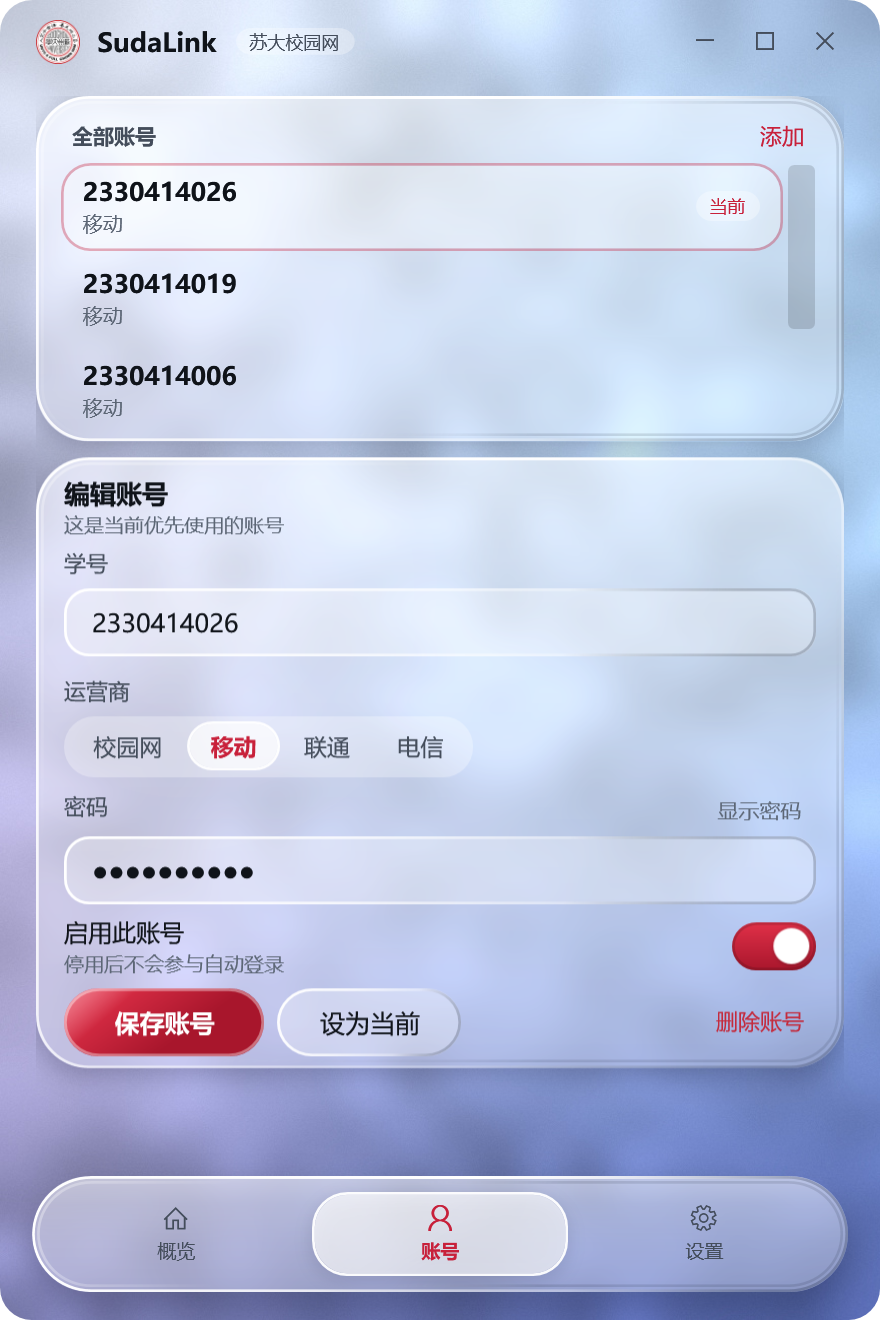
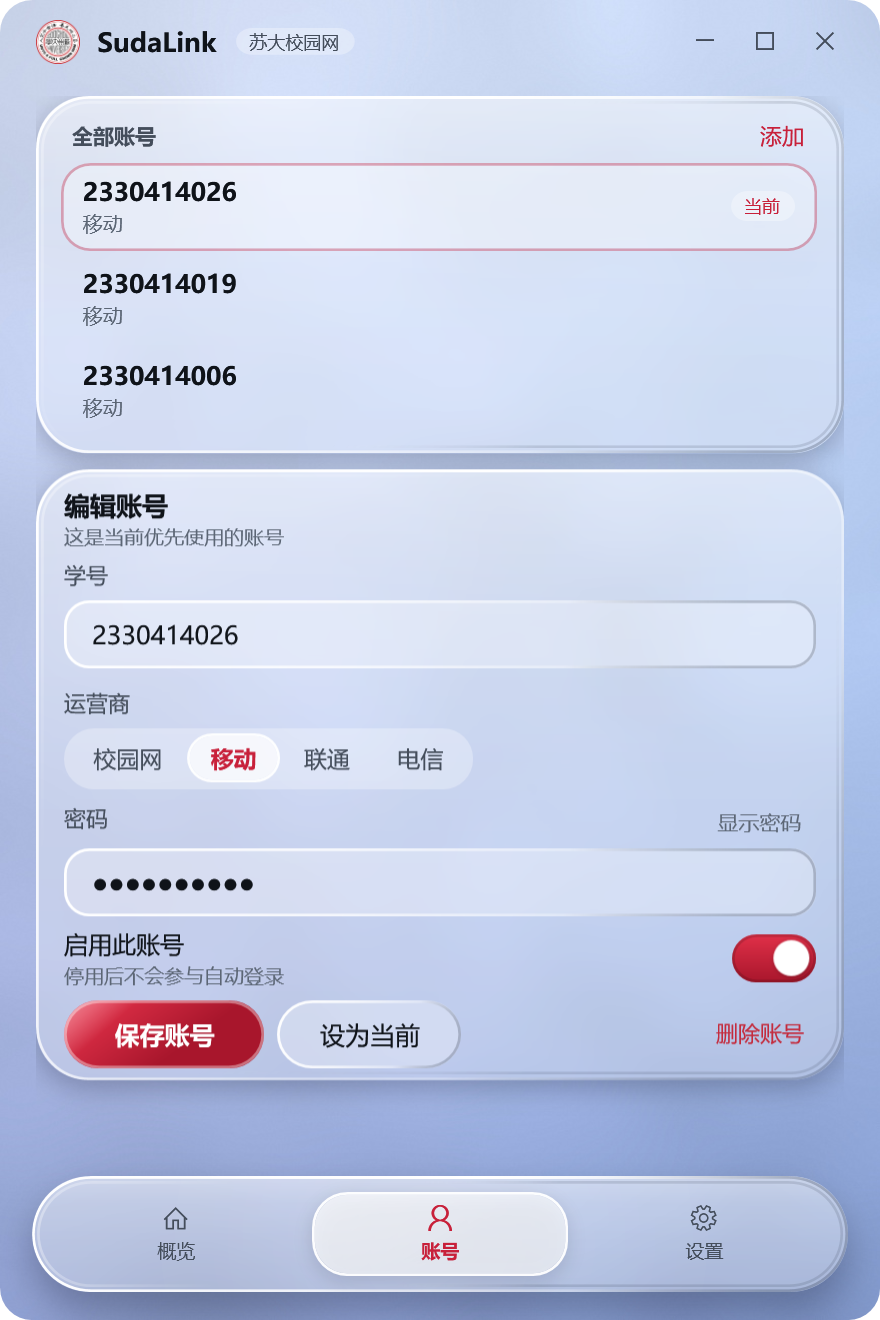
fix: 4.4.2 —— 背景更干净，账号列表不再滚动
- aura 壁纸：云纹振幅 3.8%/5% → 0.9%/1.4%，颗粒 0.006 → 0.0025；
  光斑强度减半，去掉右下深色块与中央亮斑，浅/深都更干净。
- 账号列表：取消 MaxHeight=134，禁用内部垂直滚动条，
  账号自然完整展开，不再出现裁切和列表内滚动条。
  账号很多时由页面外层 ScrollViewer 统一处理。

浅/深主题渲染验证，测试 7/7。tag v4.4.2。

diff --git a/src/SudaLink/MainWindow.xaml b/src/SudaLink/MainWindow.xaml
@@ -265,10 +265,11 @@
                                             HorizontalAlignment="Right" Click="NewAccount"/>
                                 </Grid>
                                 <ListBox x:Name="AccountsList" Grid.Row="1" Background="Transparent"
-                                         BorderThickness="0" MaxHeight="134" Margin="0,0,2,0"
+                                         BorderThickness="0" Margin="0,0,2,0"
                                          ItemContainerStyle="{StaticResource Row}"
                                          SelectionChanged="AccountSelected"
-                                         ScrollViewer.HorizontalScrollBarVisibility="Disabled">
+                                         ScrollViewer.HorizontalScrollBarVisibility="Disabled"
+                                         ScrollViewer.VerticalScrollBarVisibility="Disabled">
                                     <ListBox.ItemTemplate>
                                         <DataTemplate>
                                             <Grid>

diff --git a/tools/gen_wallpaper.py b/tools/gen_wallpaper.py
@@ -71,26 +71,22 @@ def build(style: str, dark: bool) -> Image.Image:
     if style == "aura":
         # 高对比光场：饱和底色 + 大光斑。玻璃的"透"和"磨"都看得见。
         # 浅色主题：periwinkle/azure 中明度底 + 亮白/青/玫瑰光斑，面板提亮后明显浮出。
-        stops = ([(0.00, hx("#0B0F22")), (0.40, hx("#131A3C")), (0.74, hx("#0D122B")), (1.00, hx("#070A18"))]
+        stops = ([(0.00, hx("#0C1324")), (0.40, hx("#111C32")), (0.74, hx("#0D172B")), (1.00, hx("#091221"))]
                  if dark else
-                 [(0.00, hx("#8FA9EE")), (0.30, hx("#7E97E6")), (0.64, hx("#6E84D8")), (1.00, hx("#5C6EC2"))])
+                 [(0.00, hx("#B8C9F2")), (0.30, hx("#A2B8EC")), (0.64, hx("#91A9E2")), (1.00, hx("#819AD6"))])
         img = ramp(stops, yn)
         if dark:
-            img = blend(img, hx("#5FA8FF"), 0.55 * blob(xn, yn, 0.16, 0.06, 0.50, 0.34))
-            img = blend(img, hx("#8C6BFF"), 0.42 * blob(xn, yn, 0.92, 0.30, 0.44, 0.36))
-            img = blend(img, hx("#2FD4C4"), 0.30 * blob(xn, yn, 0.10, 0.86, 0.40, 0.32))
-            img = blend(img, hx("#B8D8FF"), 0.24 * blob(xn, yn, 0.55, 0.42, 0.30, 0.24))
+            img = blend(img, hx("#5FA8FF"), 0.24 * blob(xn, yn, 0.16, 0.06, 0.56, 0.38))
+            img = blend(img, hx("#8C6BFF"), 0.16 * blob(xn, yn, 0.92, 0.30, 0.50, 0.40))
+            img = blend(img, hx("#2FD4C4"), 0.10 * blob(xn, yn, 0.10, 0.86, 0.46, 0.36))
         else:
-            img = blend(img, hx("#F4F8FF"), 0.85 * blob(xn, yn, 0.14, 0.02, 0.52, 0.34))
-            img = blend(img, hx("#BFF0FF"), 0.60 * blob(xn, yn, 0.95, 0.38, 0.40, 0.34))
-            img = blend(img, hx("#F8D9EA"), 0.55 * blob(xn, yn, 0.04, 0.72, 0.36, 0.30))
-            img = blend(img, hx("#43549E"), 0.42 * blob(xn, yn, 0.80, 0.96, 0.44, 0.30))
-            img = blend(img, hx("#CBE6FF"), 0.50 * blob(xn, yn, 0.55, 0.50, 0.26, 0.22))
-        # 柔和明度云纹：20~70px 尺度的无结构起伏（约 ±5%）。
-        # 没有它，光斑尺度都在几百 px，磨砂模糊前后没有差别，玻璃就"死"了。
-        cloud = mottle(20261026, 46, 14) * 0.038 + mottle(20261027, 130, 40) * 0.05
+            img = blend(img, hx("#F4F8FF"), 0.48 * blob(xn, yn, 0.14, 0.02, 0.60, 0.40))
+            img = blend(img, hx("#D5F3FF"), 0.26 * blob(xn, yn, 0.95, 0.38, 0.48, 0.40))
+            img = blend(img, hx("#F6E3EF"), 0.20 * blob(xn, yn, 0.04, 0.72, 0.44, 0.36))
+        # 只留很轻的明暗起伏，避免"脏/乱"的颗粒感；玻璃仍靠大光斑的柔和过渡体现。
+        cloud = mottle(20261026, 70, 24) * 0.009 + mottle(20261027, 170, 55) * 0.014
         img = img * (1.0 + cloud)[..., None]
-        grain = 0.006
+        grain = 0.0025
 
     elif style == "plain":
         # 最素的一档：没有任何可辨认的结构。玻璃靠描边和阴影表达，不靠背景花纹。

diff --git a/docs/versions/v4.4.md b/docs/versions/v4.4.md
@@ -57,3 +57,11 @@
 修复：模板根 `Grid x:Name="PART_Root"`，代码在 `OnApplyTemplate` /
 `OnRenderSizeChanged` / `CornerRadius` 变化时设置
 `RectangleGeometry(rect, radius, radius)` 作为 `Clip`，所有子层统一真正圆角。
+
+
+## 4.4.2 补丁：干净背景 + 账号列表免滚动
+
+- 用户反馈浅/深背景都显脏乱：aura 云纹振幅从 3.8%/5% 降至 0.9%/1.4%，
+  颗粒从 0.006 降至 0.0025，光斑强度减半，去掉右下深色块与中央亮斑。
+- 账号列表去掉 `MaxHeight=134`，并显式 `VerticalScrollBarVisibility=Disabled`，
+  列表高度随账号自然展开；账号很多时由页面外层 ScrollViewer 统一处理。

diff --git a/CHANGELOG.md b/CHANGELOG.md
@@ -19,6 +19,12 @@
 | [4.3](docs/versions/v4.3.md) | 修圆角阴影 + 配置固定不丢账号 | 圆角统一裁剪、投影收敛、窗口加高 |
 | [4.4](docs/versions/v4.4.md) | 高对比玻璃，截图补真实圆角 | aura 光场壁纸、面板提亮、模糊可见 |
 
+## 4.4.2
+
+**背景更干净，账号列表不再滚动。** aura 壁纸减弱云纹与颗粒、
+降低光斑强度并去掉局部深色块；账号列表取消 MaxHeight，
+同时禁用内部垂直滚动条，账号自然完整展开。
+
 ## 4.4.1
 
 **修卡片圆角本体。** 4.3 把圆角裁剪改成 `CornerRadius + ClipToBounds`，
